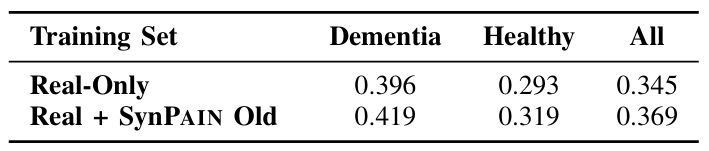
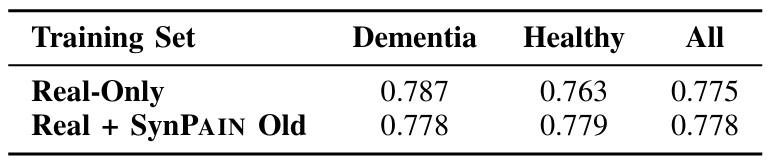
Changed AP table to AUROC table

diff --git a/index.html b/index.html
@@ -323,7 +323,7 @@
         </div>
         <div class="column is-max-desktop has-text-centered">
           <img src="./static/images/paindetectionperformance.png" alt="Pain Detection Performance" style="max-width: 100%; height: auto;">
-          <p class="is-size-6" style="margin-top: 0.5rem;"><i>Performance of the PwCT model, a SOTA pain detection model, when evaluated on a test set from the UofR dataset. Training configurations include "Real-Only" (i.e., the UNBC dataset and a training set from the UofR dataset) and "Real + SynPAIN Old" (i.e., the UNBC dataset, a training set from the UofR dataset, and all old identities from SynPAIN). Performance is measured by average precision (AP). These results show a statistically significant (p=0.024) improvement when SynPAIN is included in the training data. The improvement is also consistent across both subsets of the UofR dataset (i.e., healthy subjects and subjects with dementia).</i></p>
+          <p class="is-size-6" style="margin-top: 0.5rem;"><i>Performance of the PwCT model, a SOTA pain detection model, when evaluated on a test set from the UofR dataset. Training configurations include "Real-Only" (i.e., the UNBC dataset and a training set from the UofR dataset) and "Real + SynPAIN Old" (i.e., the UNBC dataset, a training set from the UofR dataset, and all old identities from SynPAIN). Performance is measured by area under the receiver operating characteristic curve (AUROC). These results show an improvement when SynPAIN is included in the training data.</i></p>
       </div>
     </div>
   